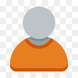
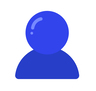
Template Dashboard configurado

diff --git a/Assets/js/functions_admin.js b/Assets/js/functions_admin.js
@@ -1,0 +1,1 @@
+alert("Hola Mundo");

diff --git a/Views/Template/nav_admin.php b/Views/Template/nav_admin.php
@@ -19,8 +19,7 @@
 
             <li class="treeview">
                 <a class="app-menu__item" href="#" data-toggle="treeview">
-                    <i class="app-menu__icon fa fa-laptop"></i>
-                    <i class="app-menu__icon fa-solid fa-users"></i>
+                    <i class="app-menu__icon fa fa-users" aria-hidden="true"></i>
                     <span class="app-menu__label">Usuarios</span>
                     <i class="treeview-indicator fa fa-angle-right"></i>
                 </a>
@@ -49,25 +48,25 @@
 
             <li>
                 <a class="app-menu__item" href="<?= base_url(); ?>/clientes">
-                <i class="app-menu__icon fa fa-file-code-o"></i>
+                <i class="app-menu__icon fa fa-user" aria-hidden="true"></i>
                 <span class="app-menu__label">Clientes</span>
                 </a>
             </li>
             <li>
                 <a class="app-menu__item" href="<?= base_url(); ?>/productos">
-                <i class="app-menu__icon fa fa-file-code-o"></i>
+                <i class="app-menu__icon fa fa-archive" aria-hidden="true"></i>
                 <span class="app-menu__label">Productos</span>
                 </a>
             </li>
             <li>
                 <a class="app-menu__item" href="<?= base_url(); ?>/pedidos">
-                <i class="app-menu__icon fa fa-file-code-o"></i>
+                <i class="app-menu__icon fa fa-shopping-cart" aria-hidden="true"></i>
                 <span class="app-menu__label">Pedidos</span>
                 </a>
             </li>
             <li>
                 <a class="app-menu__item" href="<?= base_url(); ?>/logout">
-                <i class="app-menu__icon fa fa-file-code-o"></i>
+                <i class="app-menu__icon fa fa-sign-out" aria-hidden="true"></i>
                 <span class="app-menu__label">Logout</span>
                 </a>
             </li>

diff --git a/Views/Template/footer_admin.php b/Views/Template/footer_admin.php
@@ -3,19 +3,9 @@
         <script src="<?= media(); ?>/js/popper.min.js"></script>
         <script src="<?= media(); ?>/js/bootstrap.min.js"></script>
         <script src="<?= media(); ?>/js/main.js"></script>
+        <script src="<?= media(); ?>/js/functions_admin.js"></script>
         <!-- The javascript plugin to display page loading on top-->
         <script src="<?= media(); ?>/js/plugins/pace.min.js"></script>
         <!-- Page specific javascripts-->
-        <!-- Google analytics script-->
-        <script type="text/javascript">
-        if(document.location.hostname == 'pratikborsadiya.in') {
-            (function(i,s,o,g,r,a,m){i['GoogleAnalyticsObject']=r;i[r]=i[r]||function(){
-            (i[r].q=i[r].q||[]).push(arguments)},i[r].l=1*new Date();a=s.createElement(o),
-            m=s.getElementsByTagName(o)[0];a.async=1;a.src=g;m.parentNode.insertBefore(a,m)
-            })(window,document,'script','//www.google-analytics.com/analytics.js','ga');
-            ga('create', 'UA-72504830-1', 'auto');
-            ga('send', 'pageview');
-        }
-        </script>
     </body>
 </html>
